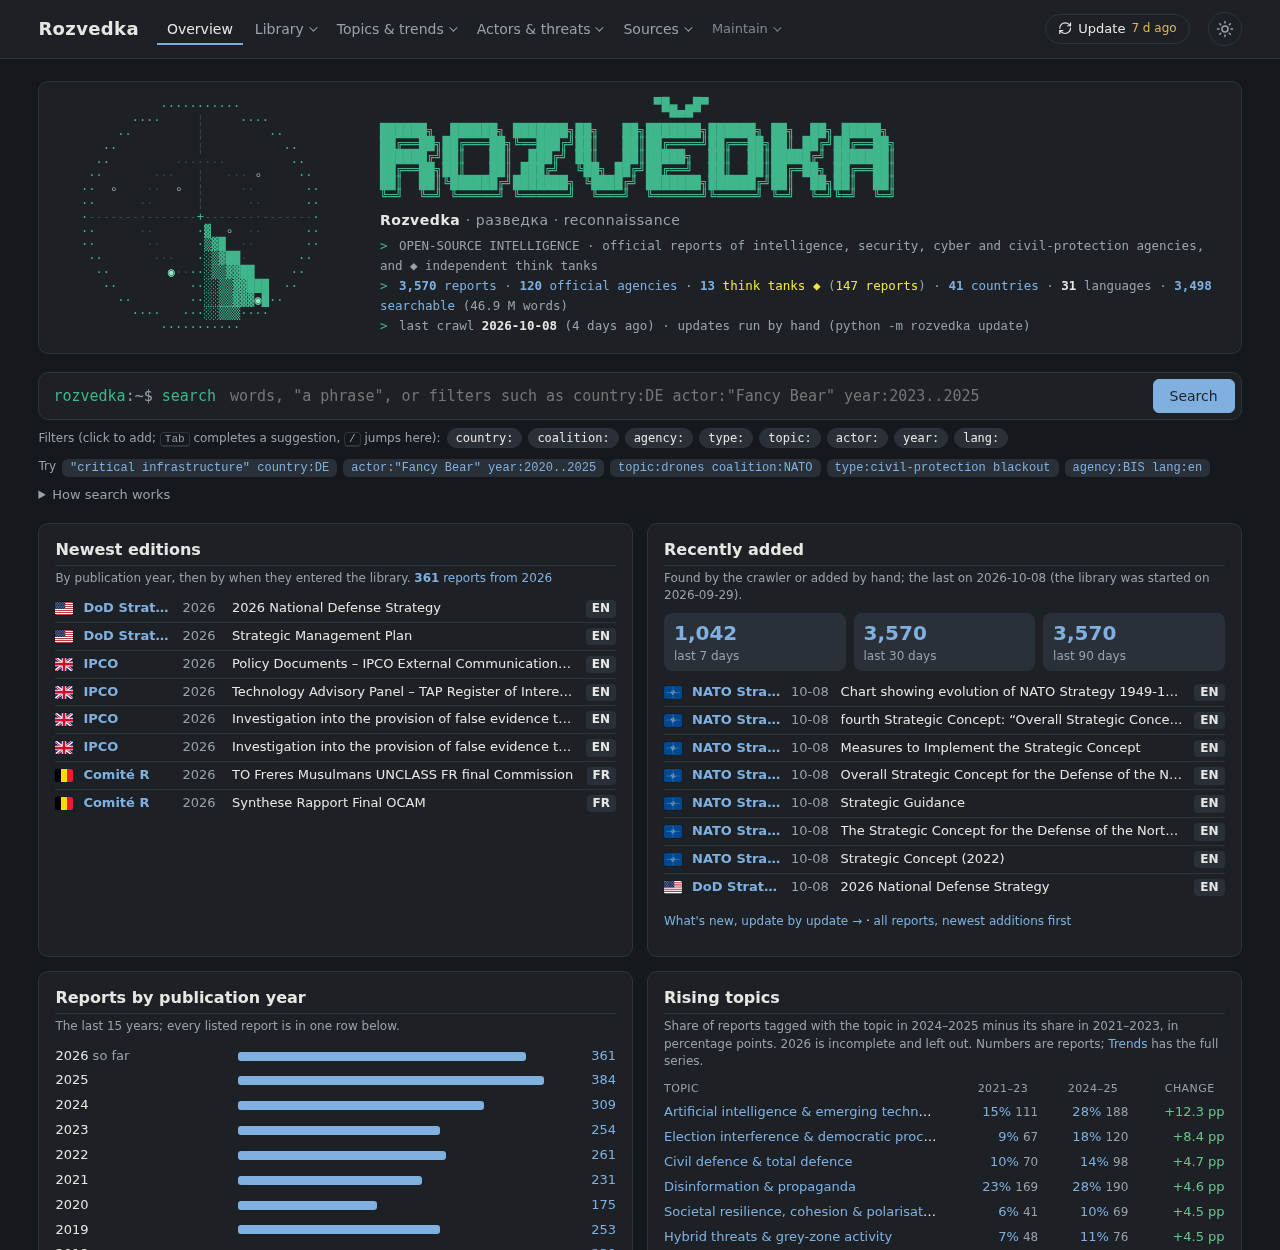
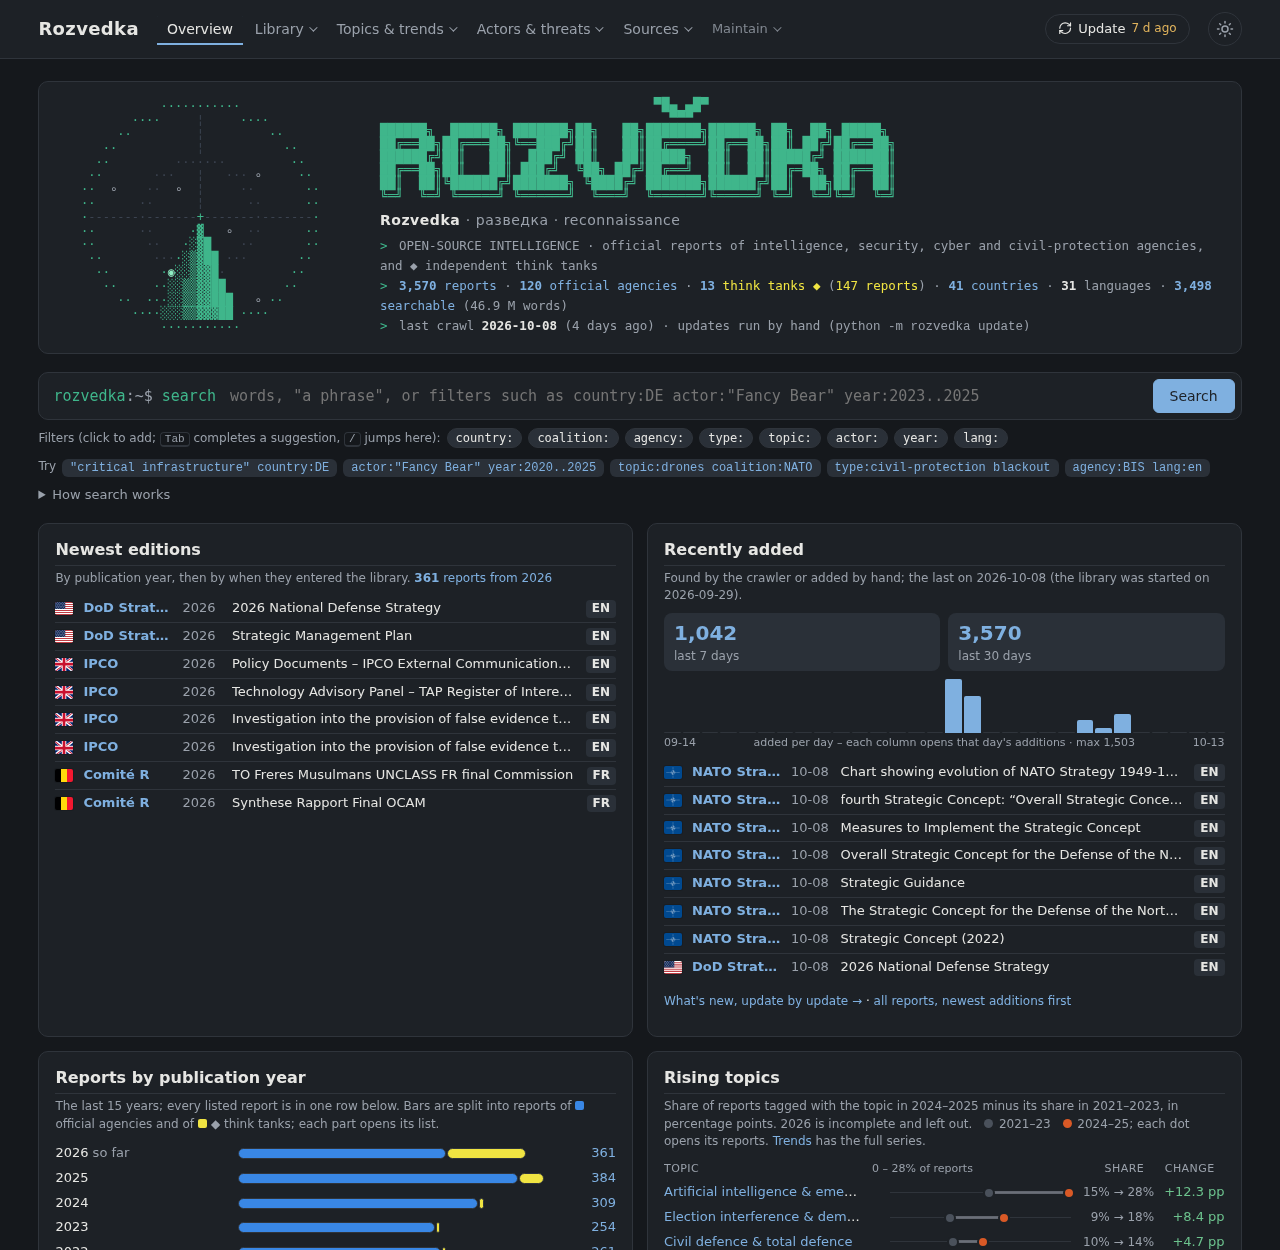
feat: overview dashboard – daily additions, split year bars, dumbbell for rising topics (0.55.0)

diff --git a/rozvedka/templates/home.html b/rozvedka/templates/home.html
@@ -88,16 +88,19 @@
     <h2 class="viz-title">Recently added</h2>
     <p class="viz-sub muted small">Found by the crawler or added by hand{% if d.last_added %}; the last on {{ d.last_added }}{% endif %}{% if d.first_added %} (the library was started on {{ d.first_added }}){% endif %}.</p>
     <div class="h-counters">{% for a in d.added %}<a href="{{ a.url }}"><b>{{ a.n|num }}</b><span>last {{ a.days }} days</span></a>{% endfor %}</div>
+    <div class="h-daily" role="img" aria-label="Reports added per day, last 30 days">{% for x in d.daily %}<a href="{{ x.url }}" title="{{ x.day }}: {{ x.n }} added" class="{{ 'zero' if not x.n }}"><i style="height: {{ [(100 * x.n / d.daily_max)|round(1), 3 if x.n else 0.0]|max }}%"></i></a>{% endfor %}</div>
+    <p class="h-daily-ax muted small"><span>{{ d.daily[0].day[5:] }}</span><span>added per day – each column opens that day's additions · max {{ d.daily_max|num }}</span><span>{{ d.daily[-1].day[5:] }}</span></p>
     <ol class="h-docs">{% for r in d.recent %}{{ doc_row(r, r.discovered_at[5:10]) }}{% endfor %}</ol>
     <p class="small"><a href="/new">What's new, update by update →</a> · <a href="{{ d.recent_url }}">all reports, newest additions first</a></p>
   </article>
 
   <article class="viz-card h-card">
     <h2 class="viz-title">Reports by publication year</h2>
-    <p class="viz-sub muted small">The last 15 years; every listed report is in one row below.</p>
+    <p class="viz-sub muted small">The last 15 years; every listed report is in one row below. Bars are split into reports of
+      <span class="key-off">official agencies</span> and of <span class="key-ind">◆ think tanks</span>; each part opens its list.</p>
     <table class="h-bars">
       {% for y in d.years %}<tr><th>{{ y.year }}{% if y.partial %}<span class="muted" title="The year is not over"> so far</span>{% endif %}</th>
-        <td class="bar"><i style="width: {{ (100 * y.n / d.years_max)|round(1) }}%"></i></td>
+        <td class="bar"><span class="stack" style="width: {{ (100 * y.n / d.years_max)|round(1) }}%">{% if y.n_off %}<a class="seg off" style="flex: {{ y.n_off }}" href="{{ y.url_off }}" title="{{ y.n_off|num }} from official agencies"></a>{% endif %}{% if y.n_ind %}<a class="seg ind" style="flex: {{ y.n_ind }}" href="{{ y.url_ind }}" title="{{ y.n_ind|num }} from think tanks"></a>{% endif %}</span></td>
         <td class="n"><a href="{{ y.url }}">{{ y.n|num }}</a></td></tr>{% endfor %}
       <tr class="h-rest"><th>before {{ d.older.before }}</th><td></td><td class="n"><a href="{{ d.older.url }}">{{ d.older.n|num }}</a></td></tr>
       <tr class="h-rest"><th>no year</th><td class="muted small">year not found in title, URL or first pages</td><td class="n"><a href="{{ d.undated.url }}">{{ d.undated.n|num }}</a></td></tr>
@@ -107,12 +110,15 @@
 
   <article class="viz-card h-card">
     <h2 class="viz-title">Rising topics</h2>
-    <p class="viz-sub muted small">{{ d.rising.how }} Numbers are reports; <a href="/trends">Trends</a> has the full series.</p>
+    <p class="viz-sub muted small">{{ d.rising.how }} <span class="dk e"></span> {{ d.rising.earlier[0] }}–{{ d.rising.earlier[1] % 100 }} <span class="dk r"></span> {{ d.rising.recent[0] }}–{{ d.rising.recent[1] % 100 }}; each dot opens its reports. <a href="/trends">Trends</a> has the full series.</p>
     {% if d.rising.rising %}<table class="h-rise">
-      <thead><tr><th>Topic</th><th>{{ d.rising.earlier[0] }}–{{ d.rising.earlier[1] % 100 }}</th><th>{{ d.rising.recent[0] }}–{{ d.rising.recent[1] % 100 }}</th><th>change</th></tr></thead>
-      {% for r in d.rising.rising %}<tr><th><a href="/documents?topic={{ r.key }}">{{ r.name }}</a></th>
-        <td><a href="{{ r.link_earlier }}" title="{{ r.n_earlier }} of {{ d.rising.docs_earlier }} reports">{{ (100 * r.earlier)|round|int }}%</a> <span class="muted small">{{ r.n_earlier }}</span></td>
-        <td><a href="{{ r.link_recent }}" title="{{ r.n_recent }} of {{ d.rising.docs_recent }} reports">{{ (100 * r.recent)|round|int }}%</a> <span class="muted small">{{ r.n_recent }}</span></td>
+      <thead><tr><th>Topic</th><th class="dumb-h">0 – {{ (100 * d.rising.axis)|round|int }}% of reports</th><th>share</th><th>change</th></tr></thead>
+      {% for r in d.rising.rising %}{% set e = (100 * r.earlier / d.rising.axis) %}{% set n = (100 * r.recent / d.rising.axis) %}<tr><th><a href="/documents?topic={{ r.key }}">{{ r.name }}</a></th>
+        <td class="dumb"><span class="dtrack"><span class="dline" style="left: {{ [e, n]|min|round(1) }}%; width: {{ (n - e)|abs|round(1) }}%"></span>
+          <a class="dot e" style="left: {{ e|round(1) }}%" href="{{ r.link_earlier }}" title="{{ d.rising.earlier[0] }}–{{ d.rising.earlier[1] }}: {{ r.n_earlier }} of {{ d.rising.docs_earlier }} reports ({{ (100 * r.earlier)|round|int }}%)"></a>
+          <a class="dot r" style="left: {{ n|round(1) }}%" href="{{ r.link_recent }}" title="{{ d.rising.recent[0] }}–{{ d.rising.recent[1] }}: {{ r.n_recent }} of {{ d.rising.docs_recent }} reports ({{ (100 * r.recent)|round|int }}%)"></a></span>
+</td>
+        <td class="muted small dnum">{{ (100 * r.earlier)|round|int }}% → {{ (100 * r.recent)|round|int }}%</td>
         <td class="{{ 'up' if r.change_pp > 0 else 'down' }}">{{ '+' if r.change_pp > 0 }}{{ r.change_pp }} pp</td></tr>{% endfor %}
     </table>{% else %}<p class="muted">Not enough classified reports in the two periods yet.</p>{% endif %}
   </article>
@@ -132,7 +138,7 @@
     <h2 class="viz-title">Library</h2>
     <p class="viz-sub muted small">Listed reports by agency type and download state.</p>
     <table class="h-bars">
-      {% for t in d.by_type %}<tr><th>{{ t.name }}</th><td class="bar"><i style="width: {{ (100 * t.n / d.type_max)|round(1) }}%"></i></td>
+      {% for t in d.by_type %}<tr><th>{{ t.name }}</th><td class="bar"><i class="tc type-dot-{{ t.key }}" style="width: {{ (100 * t.n / d.type_max)|round(1) }}%"></i></td>
         <td class="n"><a href="{{ t.url }}">{{ t.n|num }}</a></td></tr>{% endfor %}
     </table>
     <ul class="h-health">

diff --git a/rozvedka/static/style.css b/rozvedka/static/style.css
@@ -1092,3 +1092,27 @@ td.nw { white-space: nowrap; vertical-align: top; }
 
 /* icons (static/icons.svg) */
 .ico { width: 1.1em; height: 1.1em; vertical-align: -.2em; fill: none; stroke: currentColor; stroke-width: 2; stroke-linecap: round; stroke-linejoin: round; }
+
+/* ── Overview: stacked years, daily additions, dumbbell for rising topics, bars coloured by agency type ── */
+.h-bars td.bar .stack { display: flex; height: 11px; border-radius: 3px; overflow: hidden; min-width: 2px; gap: 1px; }
+.h-bars .seg { display: block; min-width: 2px; }
+.h-bars .seg.off { background: var(--official); } .h-bars .seg.ind { background: var(--indep); }
+.h-bars .seg:hover { filter: brightness(1.25); }
+.key-off::before, .key-ind::before { content: ""; display: inline-block; width: 9px; height: 9px; border-radius: 2px; margin-right: 4px; background: var(--official); }
+.key-ind::before { background: var(--indep); }
+.h-bars td.bar i.tc { background: var(--c, var(--accent)); }
+.h-daily { display: flex; align-items: flex-end; gap: 2px; height: 54px; margin: 4px 0 0; }
+.h-daily a { flex: 1; height: 100%; display: flex; align-items: flex-end; border-radius: 2px; }
+.h-daily a i { display: block; width: 100%; background: var(--accent); border-radius: 2px 2px 0 0; }
+.h-daily a.zero i { background: transparent; border-bottom: 1px solid var(--line); }
+.h-daily a:hover { background: var(--chip); text-decoration: none; }
+.h-daily-ax { display: flex; justify-content: space-between; gap: 8px; margin: 2px 0 8px; font-size: 11px; }
+.dumb { width: 52%; padding: 3px 0; } .dtrack { position: relative; display: block; height: 16px; margin: 0 8px; }
+.dtrack::before { content: ""; position: absolute; left: 0; right: 0; top: 7px; height: 1px; background: var(--line); }
+.dline { position: absolute; top: 6px; height: 3px; background: var(--muted); opacity: .55; border-radius: 2px; }
+.dtrack .dot { position: absolute; top: 2px; width: 12px; height: 12px; margin-left: -6px; border-radius: 50%; border: 2px solid var(--panel); }
+.dot.e, .dk.e { background: var(--thin); } .dot.r, .dk.r { background: var(--cat-2); }
+.dot:hover { transform: scale(1.3); }
+.h-rise td.dnum { padding-left: 4px; }
+.dk { display: inline-block; width: 9px; height: 9px; border-radius: 50%; margin: 0 2px 0 8px; }
+.h-rise thead th.dumb-h { text-align: left; text-transform: none; letter-spacing: 0; font-weight: 400; }

diff --git a/rozvedka/home.py b/rozvedka/home.py
@@ -306,6 +306,13 @@ def dashboard(today: dt.date | None = None) -> dict:
             since = (today - dt.timedelta(days=days)).isoformat()
             added.append({"days": days, "since": since, "url": docs_url(added_from=since, sort="added"),
                           "n": one(f"SELECT COUNT(*) {base} AND date(d.discovered_at) >= ?", (since,))[0]})
+        added = [a for i, a in enumerate(added) if i == 0 or a["n"] != added[i - 1]["n"]]   # a longer span adding nothing says nothing
+        daily_n = dict(con.execute(f"SELECT date(d.discovered_at), COUNT(*) {base} AND date(d.discovered_at) >= ? GROUP BY 1",
+                                   ((today - dt.timedelta(days=29)).isoformat(),)).fetchall())
+        daily = []     # the last 30 days, one column each, every column the list of that day's additions
+        for k in range(29, -1, -1):
+            day = (today - dt.timedelta(days=k)).isoformat()
+            daily.append({"day": day, "n": daily_n.get(day, 0), "url": docs_url(added_from=day, added_to=day, sort="added")})
         recent = [dict(r) for r in con.execute(
             f"""SELECT d.id, d.title, d.year, d.lang, d.status, d.url, d.local_path, d.discovered_at, s.country, s.agency, s.id source_id
                 {base} ORDER BY d.discovered_at DESC, d.id DESC LIMIT 8""")]
@@ -313,10 +320,14 @@ def dashboard(today: dt.date | None = None) -> dict:
         first_added = (one(f"SELECT MIN(d.discovered_at) {base}")[0] or "")[:10] or None
         # reports by publication year: the last 15 years, older ones and undated ones – together all listed reports
         y0 = year_now - 14
-        per_year = dict(con.execute(f"SELECT d.year, COUNT(*) {base} AND d.year BETWEEN ? AND ? GROUP BY d.year",
-                                    (y0, year_now)).fetchall())
-        years = [{"year": y, "n": per_year.get(y, 0), "url": docs_url(year=y), "partial": y == year_now}
-                 for y in range(year_now, y0 - 1, -1)]
+        per_year = {r[0]: (r[1], r[2]) for r in con.execute(
+            f"SELECT d.year, COUNT(*), SUM(CASE WHEN {trends.OFFICIAL} THEN 0 ELSE 1 END) {base} AND d.year BETWEEN ? AND ? GROUP BY d.year",
+            (y0, year_now))}
+        # each year's bar is two links: the official agencies' reports and the think tanks' (together the year's count)
+        years = [{"year": y, "n": per_year.get(y, (0, 0))[0], "n_ind": per_year.get(y, (0, 0))[1],
+                  "n_off": per_year.get(y, (0, 0))[0] - per_year.get(y, (0, 0))[1], "url": docs_url(year=y),
+                  "url_off": docs_url(year=y, type="official"), "url_ind": docs_url(year=y, type="think-tank"),
+                  "partial": y == year_now} for y in range(year_now, y0 - 1, -1)]
         older = {"n": one(f"SELECT COUNT(*) {base} AND d.year < ?", (y0,))[0], "url": docs_url(year_to=y0 - 1), "before": y0}
         later = one(f"SELECT COUNT(*) {base} AND d.year > ?", (year_now,))[0]     # misdated into the future
         undated = {"n": one(f"SELECT COUNT(*) {base} AND d.year IS NULL")[0], "url": docs_url(undated=1)}
@@ -341,9 +352,10 @@ def dashboard(today: dt.date | None = None) -> dict:
                   for k, label in (("downloaded", "downloaded"), ("new", "waiting for download"),
                                    ("browser-only", "open in a browser only"), ("failed", "download failed"))]
     rise = trends.rising(limit=6)
+    rise["axis"] = max([r[k] for r in rise["rising"] for k in ("earlier", "recent")] + [0.01])
     return {"today": today.isoformat(), "totals": totals,
             "newest": newest, "newest_year": newest_year, "newest_n": newest_n, "newest_url": docs_url(year=newest_year),
-            "added": added, "recent": recent, "last_added": last_added, "recent_url": docs_url(sort="added"), "first_added": first_added,
+            "added": added, "daily": daily, "daily_max": max([x["n"] for x in daily] + [1]), "recent": recent, "last_added": last_added, "recent_url": docs_url(sort="added"), "first_added": first_added,
             "years": years, "years_max": max([y["n"] for y in years] + [1]), "older": older, "undated": undated,
             "later": later, "by_type": by_type, "type_max": max([t["n"] for t in by_type] + [1]),
             "top_actors": top_actors, "actor_year": actor_year, "actor_year_docs": actor_year_docs,
@@ -360,6 +372,9 @@ def figures(d: dict) -> list[tuple[str, int, str]]:
            ("before", d["older"]["n"], d["older"]["url"]), ("undated", d["undated"]["n"], d["undated"]["url"])]
     out += [(f"added {a['days']} days", a["n"], a["url"]) for a in d["added"]]
     out += [(f"year {y['year']}", y["n"], y["url"]) for y in d["years"]]
+    out += [(f"year {y['year']} official", y["n_off"], y["url_off"]) for y in d["years"]]
+    out += [(f"year {y['year']} think tanks", y["n_ind"], y["url_ind"]) for y in d["years"]]
+    out += [(f"added {x['day']}", x["n"], x["url"]) for x in d["daily"]]
     out += [(f"type {t['key']}", t["n"], t["url"]) for t in d["by_type"]]
     out += [(f"actor {a['label']}", a["n"], a["url"]) for a in d["top_actors"]]
     out += [(f"status {h['key']}", h["n"], h["url"]) for h in d["health"]]

diff --git a/tests/test_home.py b/tests/test_home.py
@@ -100,6 +100,8 @@ def test_every_dashboard_count_matches_its_list(library):
     years = sum(y["n"] for y in d["years"]) + d["older"]["n"] + d["undated"]["n"] + d["later"]
     assert years == d["totals"]["reports"]["n"] == 8           # every listed report is in exactly one row
     assert [a["n"] for a in d["added"]] == [4, 5, 6]
+    assert all(y["n_off"] + y["n_ind"] == y["n"] for y in d["years"])    # a year's bar is its official and think-tank parts
+    assert len(d["daily"]) == 30 and sum(x["n"] for x in d["daily"]) == 5       # reports added in the last 30 days (a longer span adds none)
     assert [a["label"] for a in d["top_actors"]] == ["Fancy Bear"]
     assert d["rising"]["rising"]                                # drones/ransomware shares differ between periods
 

diff --git a/rozvedka/__init__.py b/rozvedka/__init__.py
@@ -5,7 +5,7 @@ from pathlib import Path
 
 # Single source of the release version (Semantic Versioning, https://semver.org).
 # Do not edit by hand: run `python3 tools/bump_version.py patch|minor|major` (see CHANGELOG.md, "Versioning").
-__version__ = "0.54.2"
+__version__ = "0.55.0"
 
 
 @lru_cache(maxsize=1)

diff --git a/README.md b/README.md
@@ -62,10 +62,12 @@ The start page (`/`): an ASCII radar and word mark, one search box for the whole
   countries, each with the number of reports it lists. <kbd>↑</kbd>/<kbd>↓</kbd> choose, <kbd>Enter</kbd> opens,
   <kbd>Tab</kbd> puts the suggestion into the query as a filter, <kbd>/</kbd> jumps to the box. Recent searches
   are remembered in your browser only.
-- **Dashboards** – newest editions; reports added in the last 7 / 30 / 90 days; reports per publication year
-  (every report in one row, undated ones included); rising topics; the actors most named in last year's reports;
-  the library by agency type and download state, with the editions still to collect; and when the data was last
-  crawled. Every number opens the list it counts.
+- **Dashboards** – newest editions; reports added lately, with a column for each of the last 30 days (a column opens
+  that day's additions); reports per publication year, each bar split into official agencies and ◆ think tanks (every
+  report in one row, undated ones included); rising topics as a dumbbell – each topic's share in the earlier and the
+  recent period, both dots opening their reports; the actors most named in last year's reports; the library by
+  agency type (bars in the type's colour) and download state, with the editions still to collect; and when the data
+  was last crawled. Every number and every bar part opens the list it counts.
 
 <img src="docs/images/home-search.png" alt="Search suggestions: actors, topics with report counts" width="900">
 

diff --git a/CHANGELOG.md b/CHANGELOG.md
@@ -27,6 +27,15 @@ From 0.9.1 on, the significance of a change decides which part of `MAJOR.MINOR.P
 
 ## [Unreleased]
 
+## [0.55.0] – 2026-10-13
+
+### Changed
+- **Overview dashboard**: the 30- and 90-day "recently added" tiles repeated the whole library for a young library; a span that adds
+  nothing over the shorter one is dropped, and a column chart shows the additions of each of the last 30 days (each column opens
+  that day's list). Each bar of "Reports by publication year" is split into official agencies and think tanks (two colours, each part
+  a link). "Rising topics" is a dumbbell: the earlier and the recent share as two dots on one scale, each opening its reports. The
+  bars of "Library" take the colour of the agency type.
+
 ## [0.54.2] – 2026-10-13
 
 ### Changed
@@ -1118,7 +1127,8 @@ From 0.9.1 on, the significance of a change decides which part of `MAJOR.MINOR.P
 - Crawler, polite downloader (robots.txt, per-host delay, PDF check, de-duplication) and FastAPI web portal.
 - systemd user units for the portal and a weekly update timer.
 
-[Unreleased]: https://github.com/iiogurt/Rozvedka/compare/v0.54.2...HEAD
+[Unreleased]: https://github.com/iiogurt/Rozvedka/compare/v0.55.0...HEAD
+[0.55.0]: https://github.com/iiogurt/Rozvedka/compare/v0.54.2...v0.55.0
 [0.54.2]: https://github.com/iiogurt/Rozvedka/compare/v0.54.1...v0.54.2
 [0.54.1]: https://github.com/iiogurt/Rozvedka/compare/v0.54.0...v0.54.1
 [0.54.0]: https://github.com/iiogurt/Rozvedka/compare/v0.53.0...v0.54.0
